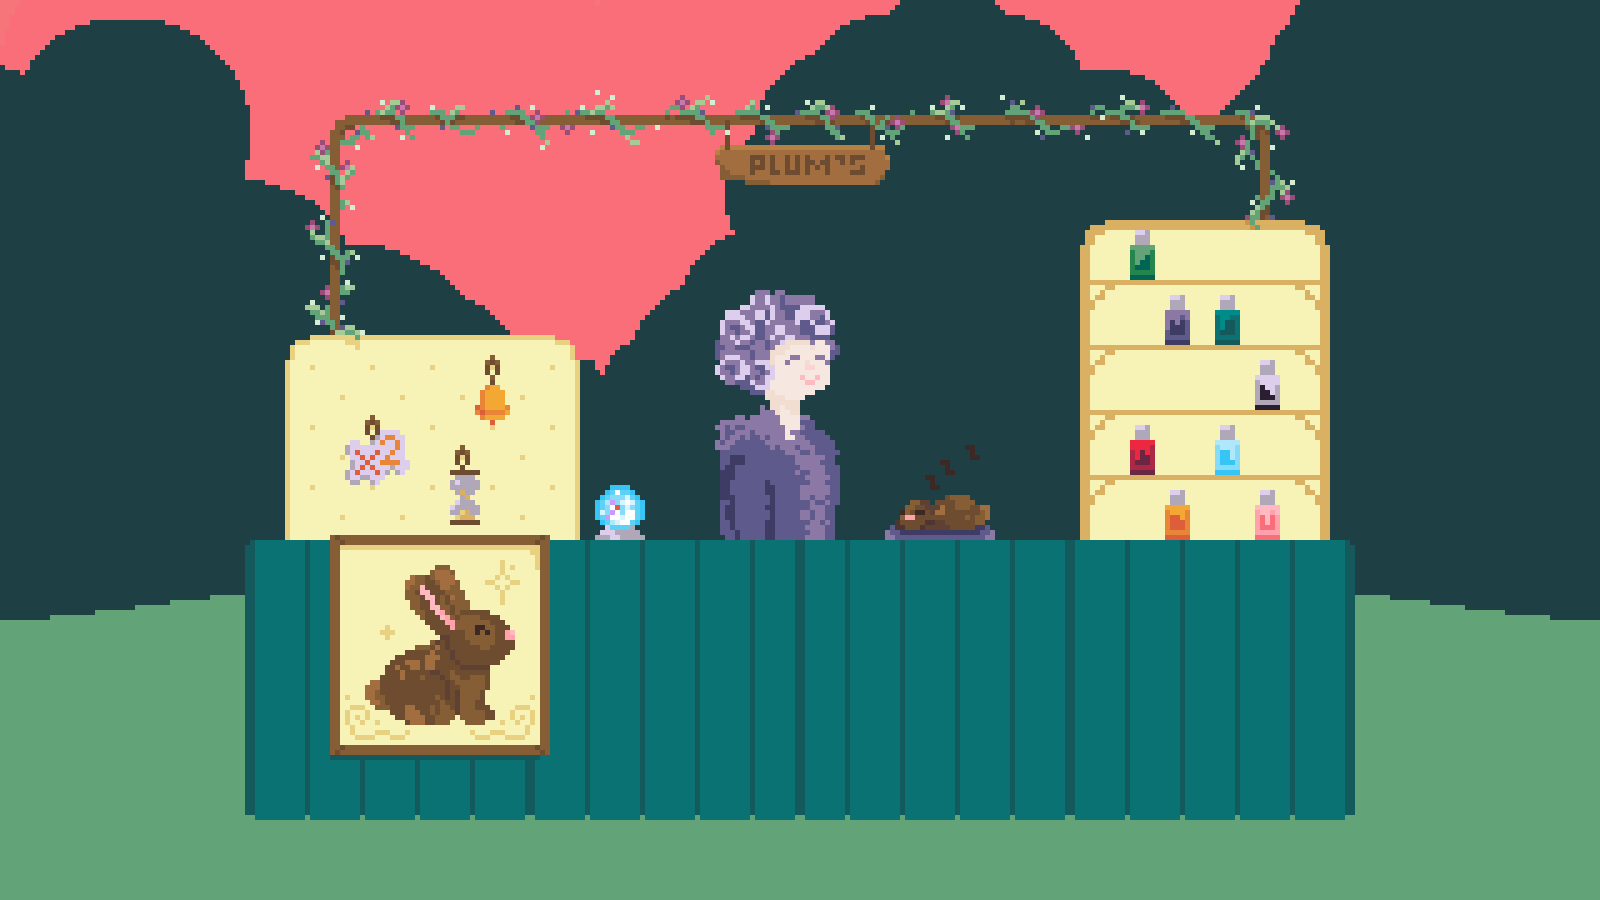
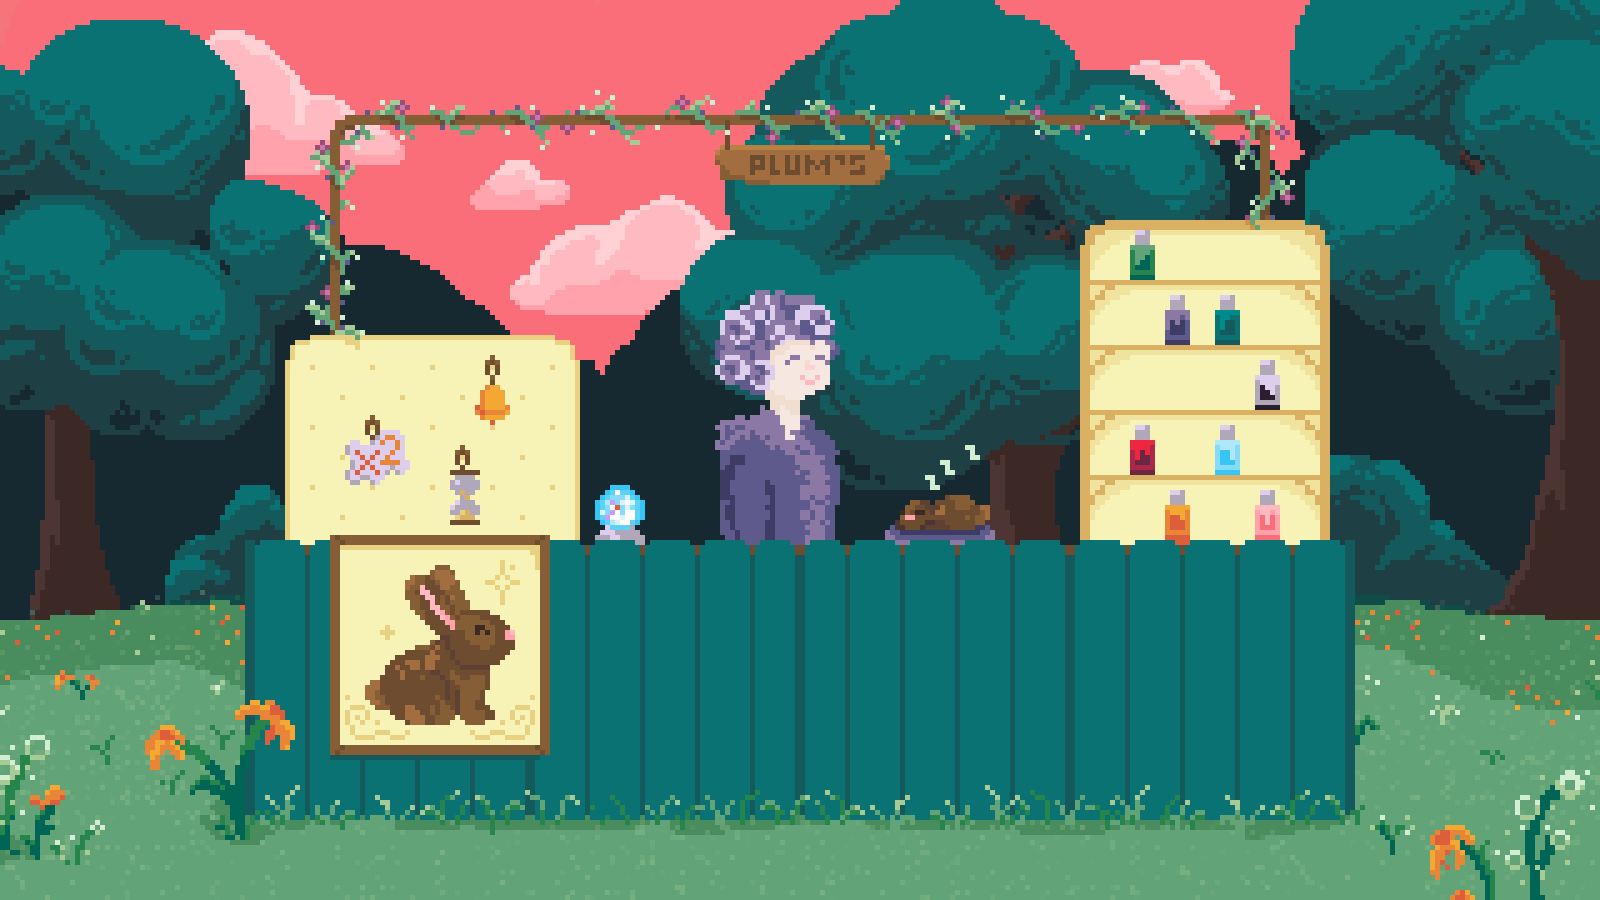
alt_endings

diff --git a/WAM1.py b/WAM1.py
@@ -245,6 +245,13 @@ def shop(volume,music, current_cursor, inventory):
                              text_input="", font=buttonfont, base_color=white, hovering_color=white)
     back_button = Button(transform.scale(pygame.image.load("Resources/Sprites/back_arrow.PNG").convert_alpha(),(68,68)), pos=(54, 118),
                              text_input="", font=buttonfont, base_color=black, hovering_color=orange)
+    next_button = Button(transform.scale(pygame.image.load("Resources/Sprites/next_arrow.PNG").convert_alpha(),(50,50)), pos=(944,438),
+                         text_input="", font=shopfont, base_color=darkbrown, hovering_color=pink)
+    yes_button = Button(transform.scale(pygame.image.load("Resources/Sprites/yes.PNG").convert_alpha(),(50,50)), pos=(944,438),
+                         text_input="", font=shopfont, base_color=darkbrown, hovering_color=pink)
+    no_button = Button(transform.scale(pygame.image.load("Resources/Sprites/no.PNG").convert_alpha(),(50,50)), pos=(855,438),
+                         text_input="", font=shopfont, base_color=darkbrown, hovering_color=pink)   
+
     speech_bubble = pygame.image.load("Resources/Sprites/speech_bubble.PNG").convert_alpha()
         
     snow_power = Button(pygame.image.load("Resources/Sprites/snow_shop.PNG").convert_alpha(), pos=(587, 549), 
@@ -289,13 +296,6 @@ def shop(volume,music, current_cursor, inventory):
     line2_text = "Welcome to"
     line3_text = "my shop."
     line4_text = ""
-
-    next_button = Button(None, pos=(944,438),
-                         text_input="Next", font=shopfont, base_color=darkbrown, hovering_color=pink)
-    yes_button = Button(None, pos=(944,438),
-                         text_input="Yes", font=shopfont, base_color=darkbrown, hovering_color=pink)
-    no_button = Button(None, pos=(855,438),
-                         text_input="No", font=shopfont, base_color=darkbrown, hovering_color=pink)   
     dialogue = True
     item_clicked = False
     current_power = None
@@ -858,7 +858,6 @@ def play(volume,music, current_cursor, inventory):
                     button.enabled = False
 
                 if gameCompleted:
-                    print("the game finished")
                     game_finished(volume, music, current_cursor, inventory, score)
                     gameCompleted = False
 
@@ -867,36 +866,27 @@ def play(volume,music, current_cursor, inventory):
         pygame.display.update()
 
 def game_finished(volume, music, current_cursor, inventory, score):
+    pie_image = transform.scale(pygame.image.load("Resources/Sprites/pie.PNG").convert_alpha(), (125,125))
+    pie_positions = [(55, 430), (180, 430), (305, 430), (430, 430), (55, 266), (180, 266), (305, 266), (430, 266)]
+    pies_earned = score // 4
     if score > 0:
-        inventory[0][1] += score // 2
-    elif score != -9999:
-        score = 0
-        #better luck next time
-        pass
-    else:
-        #bad ending, hit rabbits to get here
-        pass
+        inventory[0][1] += pies_earned
+
+    screen.fill(black)
+    # loads in image and scales it to screen size
+    BG = transform.scale(pygame.image.load("Resources/Backgrounds/BG_Final.PNG").convert(),GAME_SIZE)
+    OVERLAY = transform.scale(pygame.image.load("Resources/Backgrounds/overlay.PNG").convert_alpha(),GAME_SIZE)
+
+    menu_button = Button(None, pos=(100, 118), 
+                 text_input="Main Menu", font=buttonfont, base_color=white, hovering_color=white)
+    continue_button = Button(None, pos=(700, 650), 
+                 text_input="Continue", font=buttonfont, base_color=black, hovering_color=orange)
 
     while True:
         mousePos = pygame.mouse.get_pos()
 
-        screen.fill(black)
-        # loads in image and scales it to screen size
-        screen.fill(pink)
-        #BG = transform.scale(pygame.image.load("Resources/Backgrounds/BG_Score.PNG").convert(),GAME_SIZE)
         # blits the image to the center of the surface "screen"
-        #screen.blit(BG, BG.get_rect(center = screen.get_rect().center))
-
-
-        # create some text
-        headerText = buttonfont.render("This is your score" + str(score) + "pies:" + str(score // 2), True, black, pink)
-        headerRect = headerText.get_rect(center=(350,50))
-        screen.blit(headerText, headerRect)
-
-        menu_button = Button(None, pos=(100, 118), 
-                    text_input="Main Menu", font=buttonfont, base_color=white, hovering_color=white)
-        continue_button = Button(None, pos=(700, 650), 
-                         text_input="Continue", font=buttonfont, base_color=black, hovering_color=orange)
+        screen.blit(BG, BG.get_rect(center = screen.get_rect().center))
 
         for button in [menu_button, continue_button]:
             button.changeColor(mousePos)
@@ -916,9 +906,43 @@ def game_finished(volume, music, current_cursor, inventory, score):
                     main_menu(volume, music, current_cursor, inventory)
                 if continue_button.checkForInput(mousePos):
                     return
+        
+        if pies_earned > 0:
+            for i in range(pies_earned):
+                if i == 8:
+                    break
+                screen.blit(pie_image, pie_positions[i])
+            
+            text = buttonfont.render("Good job! You collected enough", True, black, pink)
+            rect = text.get_rect(center=(350,50))
+            screen.blit(text, rect)
+            text2 = buttonfont.render("jam to make " + str(pies_earned) + " pies.", True, black, pink)
+            rect2 = text2.get_rect(center=(350,100))
+            screen.blit(text2, rect2)
+            if pies_earned > 8:
+                text3 = buttonfont.render("You even ran out of room with that many!", True, black, pink)
+                rect3 = text3.get_rect(center=(350,150))
+                screen.blit(text3, rect3)
+
+        elif score > -9999:
+            #better luck next time
+            text = buttonfont.render("Awe, looks like you couldn't get enough jam for a pie.", True, black, pink)
+            rect = text.get_rect(center=(350,50))
+            screen.blit(text, rect)
+            text2 = buttonfont.render("Better luck next time.", True, black, pink)
+            rect2 = text2.get_rect(center=(350,100))
+            screen.blit(text2, rect2)
+        else:
+            screen.blit(OVERLAY, OVERLAY.get_rect(center = screen.get_rect().center))
+            #bad ending, hit rabbits to get here
+            text = buttonfont.render("Oh no! Poor snowdrop!", True, black, pink)
+            rect = text.get_rect(center=(350,50))
+            screen.blit(text, rect)
+            text2 = buttonfont.render("Be more careful not to hit her next time.", True, black, pink)
+            rect2 = text2.get_rect(center=(350,100))
+            screen.blit(text2, rect2)
 
         pygame.display.update()
-
 
 intro_sequence()
 # maybe have it play a 7 sec empty audio then restart the previosuly playing aufio that way
